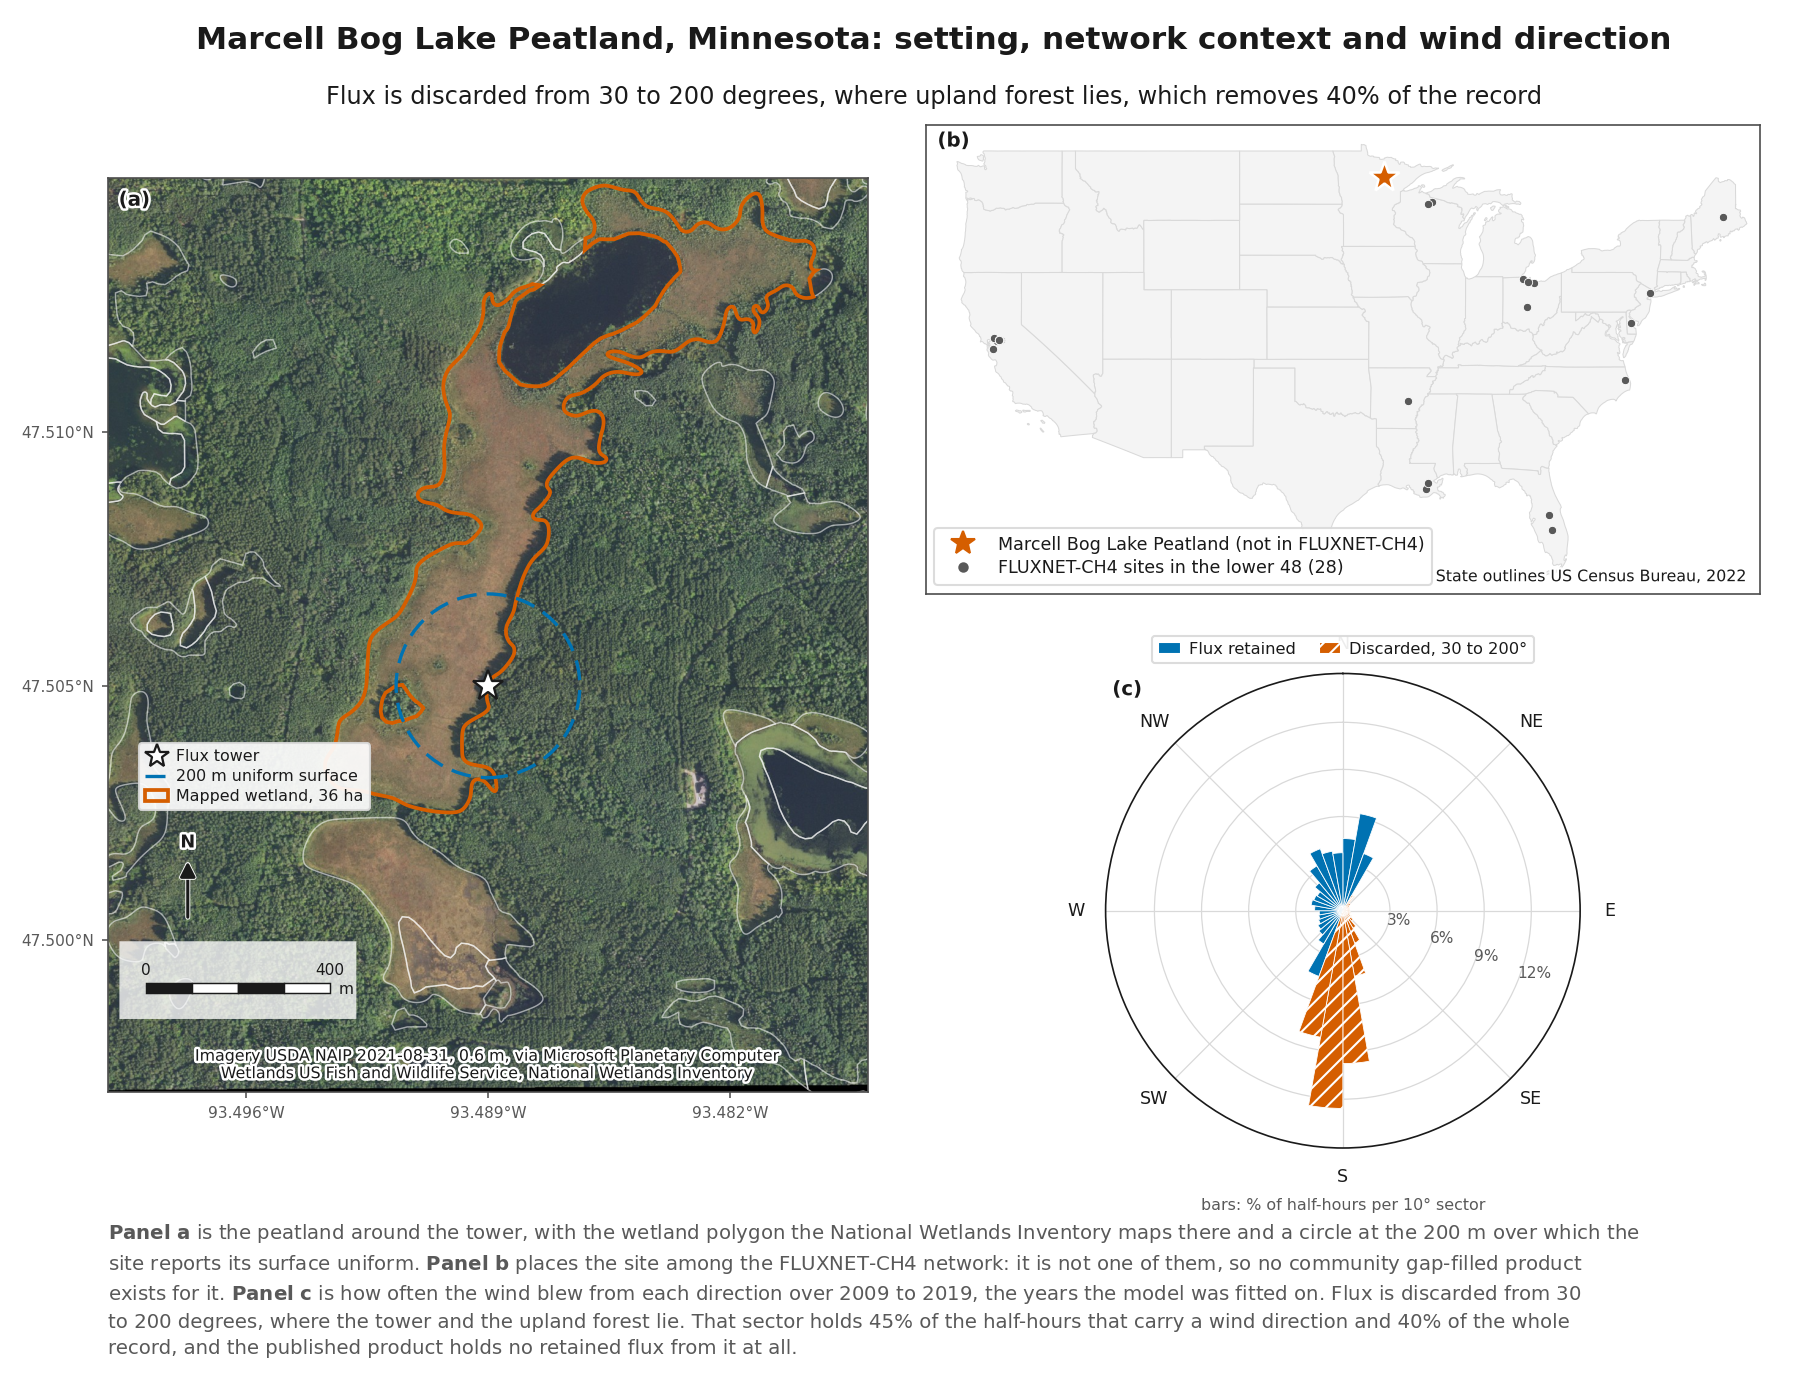
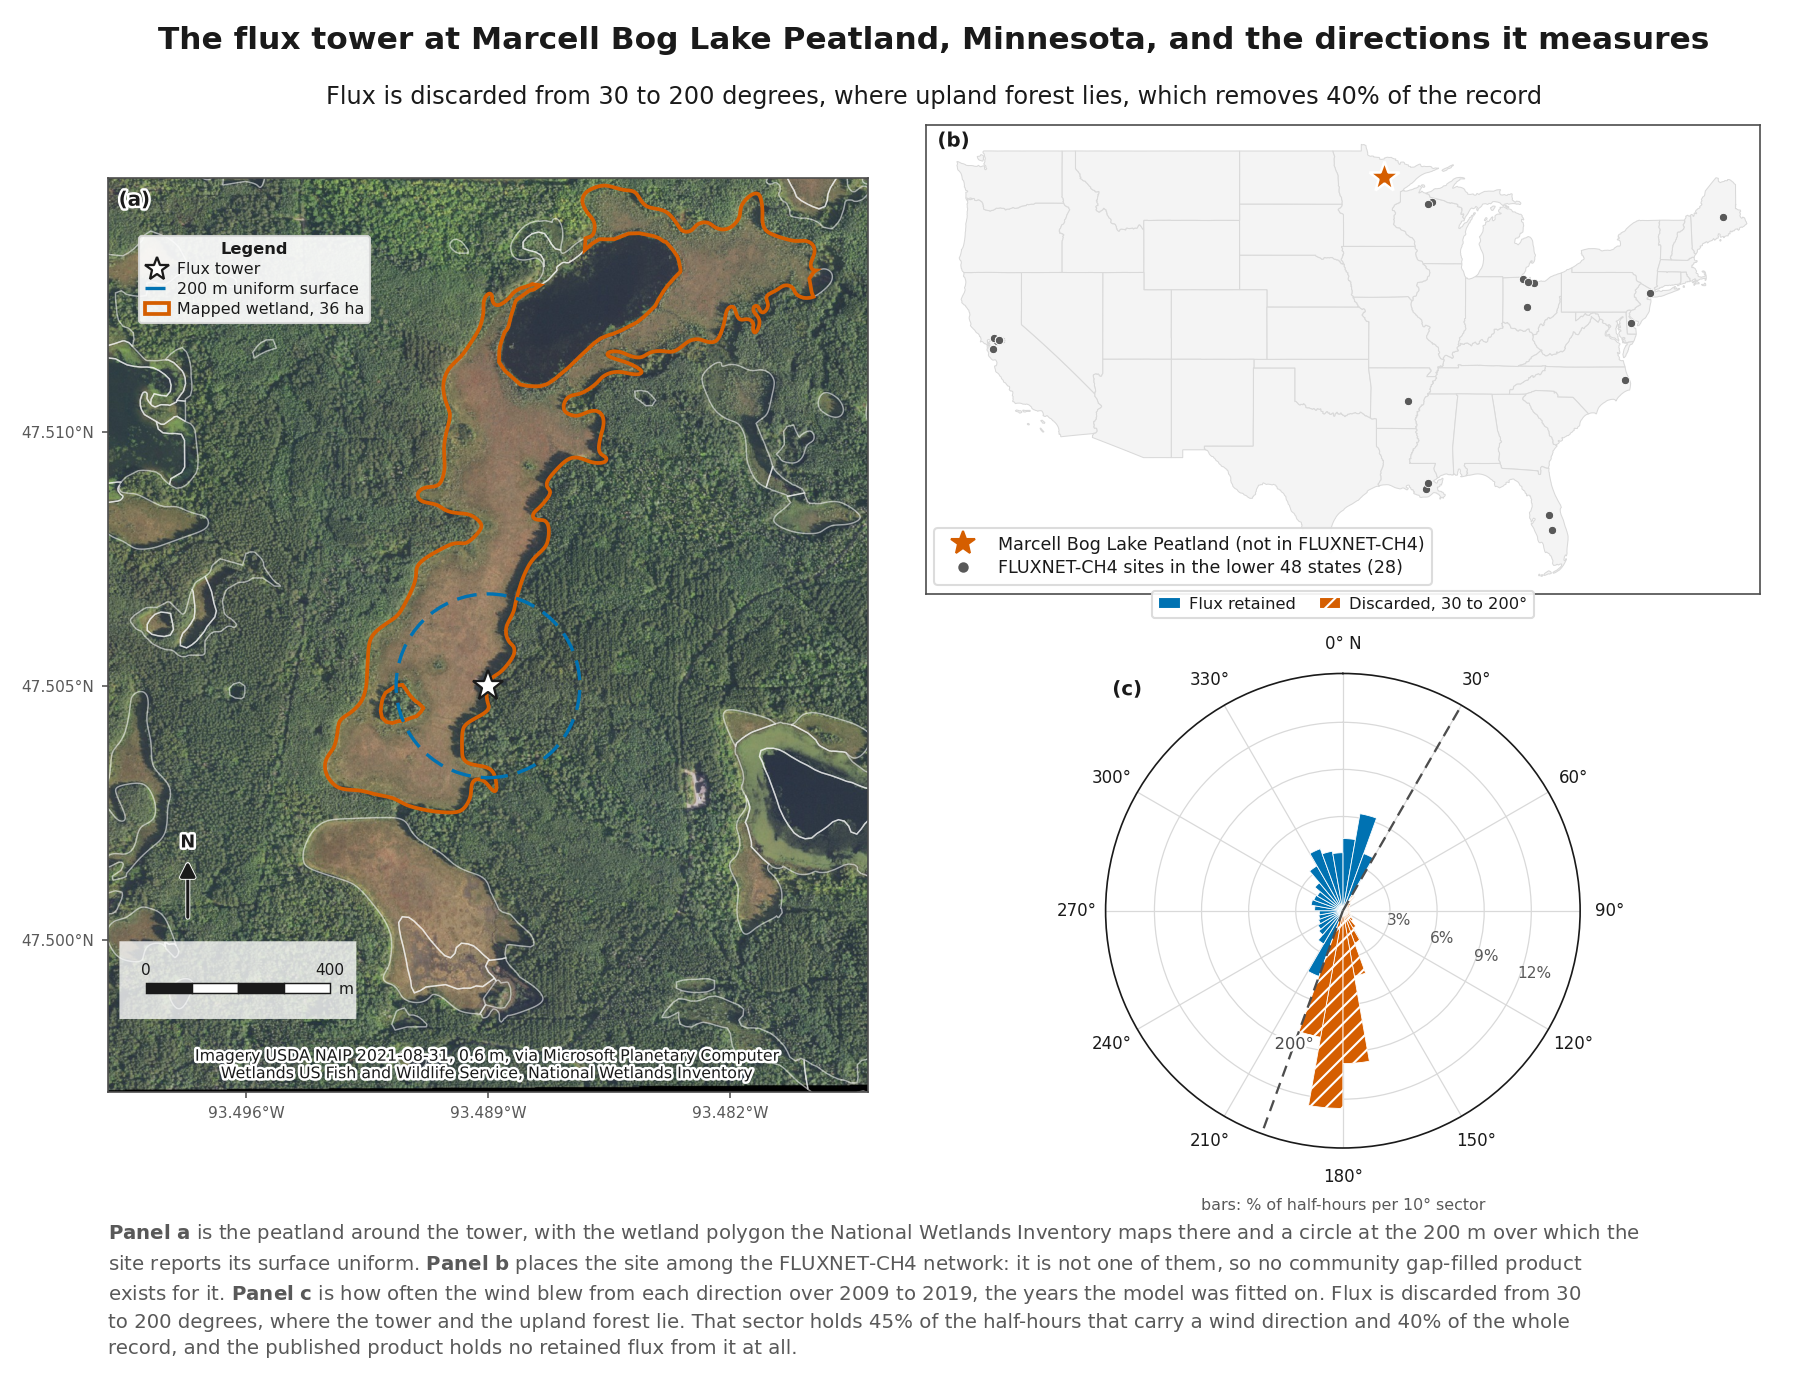
Label the wind rose in degrees and head the site legend
A reader told the discarded sector runs from 30 to 200 degrees could not find
either bound: the rose labeled only the eight compass points. It now carries
degrees at 30 degree intervals, with north named once at zero so orientation is
still anchored, and both bounds drawn as rays. 30 falls on a gridline; 200 does
not, so it is named on its own ray.

The title listed panel topics after a colon, which reads as a label. It now
states what the figure shows.

Move the site panel's legend to the top, clear of the mapped wetland it was
overlapping, and head it. The north arrow and scale bar stay together below.

Drop the state outline credit: it is a generic base map rather than a layer the
figure makes a claim from, and its provenance is recorded in notes/study.md.
The imagery and wetland credits stay, and a test now states that distinction
rather than only checking that credits exist.

diff --git a/src/study/sitemap.py b/src/study/sitemap.py
@@ -52,7 +52,7 @@ TOWER_MARKER = dict(marker="*", markersize=15, markerfacecolor="white",
 
 
 SITEMAP_TEXT = ps.FigureText(
-    title="Marcell Bog Lake Peatland, Minnesota: setting, network context and wind direction",
+    title="The flux tower at Marcell Bog Lake Peatland, Minnesota, and the directions it measures",
     subtitle=(
         "Flux is discarded from 30 to 200 degrees, where upland forest lies, which "
         "removes 40% of the record"
@@ -194,9 +194,12 @@ def draw_site(ax, image, wetlands: dict, origin: tuple[float, float]) -> None:
         Patch(facecolor="none", edgecolor=ps.OUTSIDE, linewidth=1.8,
               label=f"Mapped wetland, {acres * 0.4047:.0f} ha"),
     ]
-    ps.legend(ax, handles=handles, labels=[h.get_label() for h in handles],
-              loc="lower left", fontsize=7.6, borderpad=0.38, labelspacing=0.3,
-              handlelength=1.5, handletextpad=0.5, bbox_to_anchor=(0.03, 0.300))
+    key = ps.legend(ax, handles=handles, labels=[h.get_label() for h in handles],
+                    loc="upper left", fontsize=7.6, borderpad=0.4, labelspacing=0.3,
+                    handlelength=1.5, handletextpad=0.5, title="Legend",
+                    bbox_to_anchor=(0.03, 0.945))
+    key.get_title().set_fontsize(7.8)
+    key.get_title().set_fontweight("bold")
 
 
 def _coordinate_ticks(ax, origin: tuple[float, float]) -> None:
@@ -238,12 +241,11 @@ def draw_network(ax, states: dict, sites: pd.DataFrame,
     for spine in ax.spines.values():
         spine.set_edgecolor(ps.BOUNDARY)
 
-    ps.credit(ax, BOUNDARY_CREDIT, xy=(0.985, 0.02), va="bottom", ha="right")
     handles = [
         Line2D([], [], marker="*", color=ps.OUTSIDE, linestyle="none", markersize=12,
                label=f"{site.SITE_NAME} (not in FLUXNET-CH4)"),
         Line2D([], [], marker="o", color=ps.MUTED, linestyle="none", markersize=4,
-               label=f"FLUXNET-CH4 sites in the lower 48 ({len(inside)})"),
+               label=f"FLUXNET-CH4 sites in the lower 48 states ({len(inside)})"),
     ]
     ps.legend(ax, handles=handles, labels=[h.get_label() for h in handles],
               loc="lower left", fontsize=8.4, borderpad=0.42, labelspacing=0.34)
@@ -262,7 +264,6 @@ def draw_sector(ax, shares: pd.DataFrame) -> None:
     values = shares["pct_of_half_hours_with_wind_direction"].to_numpy()
     excluded = shares["excluded"].to_numpy()
 
-    lo, hi = (math.radians(a) for a in EXCLUDED_SECTOR)
     ax.bar(theta[~excluded], values[~excluded], width=width, color=ps.INSIDE,
            edgecolor="white", linewidth=0.4, zorder=3)
     ax.bar(theta[excluded], values[excluded], width=width, color=ps.OUTSIDE,
@@ -270,8 +271,8 @@ def draw_sector(ax, shares: pd.DataFrame) -> None:
 
     ax.set_theta_zero_location("N")
     ax.set_theta_direction(-1)
-    ax.set_thetagrids(range(0, 360, 45), ["N", "NE", "E", "SE", "S", "SW", "W", "NW"],
-                      fontsize=8.4)
+    labels = [f"{d}\u00b0 N" if d == 0 else f"{d}\u00b0" for d in range(0, 360, 30)]
+    ax.set_thetagrids(range(0, 360, 30), labels, fontsize=8.0)
 
     # Rings stop short of the outer edge, so no radial label sits on the frame.
     top = float(values.max())
@@ -287,6 +288,18 @@ def draw_sector(ax, shares: pd.DataFrame) -> None:
                 color=ps.MUTED)
     ax.grid(color=ps.GRID, linewidth=0.6)
 
+    # The bounds are drawn, because a reader told the sector runs 30 to 200
+    # degrees cannot otherwise find either one on the circle. 30 sits on a
+    # gridline and is labeled there; 200 does not, so it is named on its ray.
+    top = float(values.max())
+    for bound in EXCLUDED_SECTOR:
+        ax.plot([math.radians(bound)] * 2, [0, top * 1.20], color=ps.BOUNDARY,
+                linewidth=1.1, linestyle=(0, (5, 3)), zorder=4)
+    ax.annotate(f"{EXCLUDED_SECTOR[1]:.0f}\u00b0",
+                xy=(math.radians(EXCLUDED_SECTOR[1]), top * 0.72),
+                ha="center", va="center", fontsize=7.8, color=ps.BOUNDARY,
+                zorder=5, path_effects=[ps._outline()])
+
     handles = [
         Patch(facecolor=ps.INSIDE, edgecolor="white", label="Flux retained"),
         Patch(facecolor=ps.OUTSIDE, edgecolor="white", hatch=ps.OUTSIDE_HATCH,
@@ -295,7 +308,7 @@ def draw_sector(ax, shares: pd.DataFrame) -> None:
     ps.legend(ax, handles=handles, labels=[h.get_label() for h in handles],
               loc="lower center", fontsize=7.8, borderpad=0.38, labelspacing=0.3,
               handlelength=1.4, handletextpad=0.5, columnspacing=1.4, ncols=2,
-              bbox_to_anchor=(0.5, 1.005))
+              bbox_to_anchor=(0.5, 1.10))
 
 
 def site_overview(image, wetlands: dict, states: dict, sites: pd.DataFrame,

diff --git a/tests/test_sitemap.py b/tests/test_sitemap.py
@@ -115,9 +115,14 @@ def test_every_panel_carries_its_letter():
     ps.plt.close(fig)
 
 
-def test_imagery_and_layers_are_credited_inside_the_figure():
+def test_the_substantive_layers_are_credited_inside_the_figure():
+    """Imagery and the wetland mapping carry their sources on the panel.
+
+    The state outlines do not: they are a generic base map rather than a layer
+    the figure makes a claim from, and their provenance is in notes/study.md.
+    """
     fig = sitemap.site_overview(image(), wetlands(), states(), sites(), shares())
     said = " ".join(t.get_text() for ax in fig.axes[:3] for t in ax.texts)
     assert "NAIP" in said and "National Wetlands Inventory" in said
-    assert "Census" in said
+    assert "Census" not in said
     ps.plt.close(fig)

diff --git a/figures/README_fragments.md b/figures/README_fragments.md
@@ -6,9 +6,9 @@
 
 Reconstruction means estimating methane emissions for years before measurements began in 2009, from relationships fitted on 2009 to 2019. Each point is one month's mean. The shaded band marks the 115 months the fit used. The water table fell through the 2000s, so the fit window opens after the wetter state has gone, sampling only the drier conditions. The dashed lines mark the highest and lowest water table they reached. Points beyond them lie outside anything the model has seen: 107 above in runs lasting years, six below by under 0.06 m. Those lines sit 0.33 m apart, and the reconstruction runs 0.29 m above the upper one: the excursion is nearly as wide as the whole fitted span. It stops at 2019 because precipitation, a covariate it needs, ends there.
 
-### Marcell Bog Lake Peatland, Minnesota: setting, network context and wind direction
+### The flux tower at Marcell Bog Lake Peatland, Minnesota, and the directions it measures
 
-![Marcell Bog Lake Peatland, Minnesota: setting, network context and wind direction](figures/site_overview.png)
+![The flux tower at Marcell Bog Lake Peatland, Minnesota, and the directions it measures](figures/site_overview.png)
 
 **Flux is discarded from 30 to 200 degrees, where upland forest lies, which removes 40% of the record**
 
